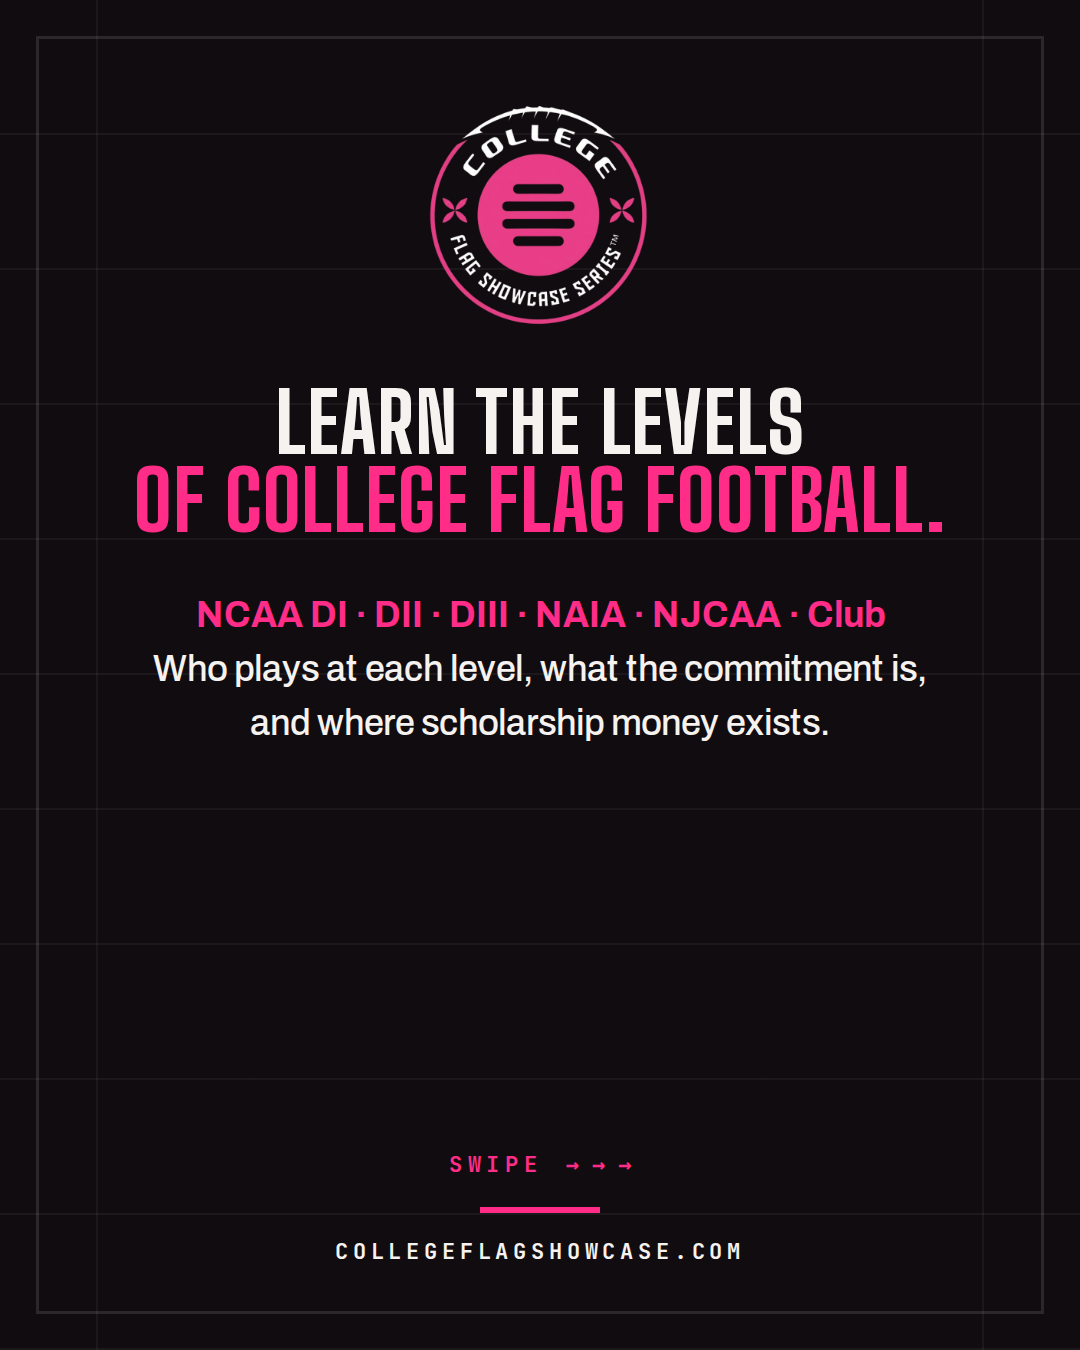
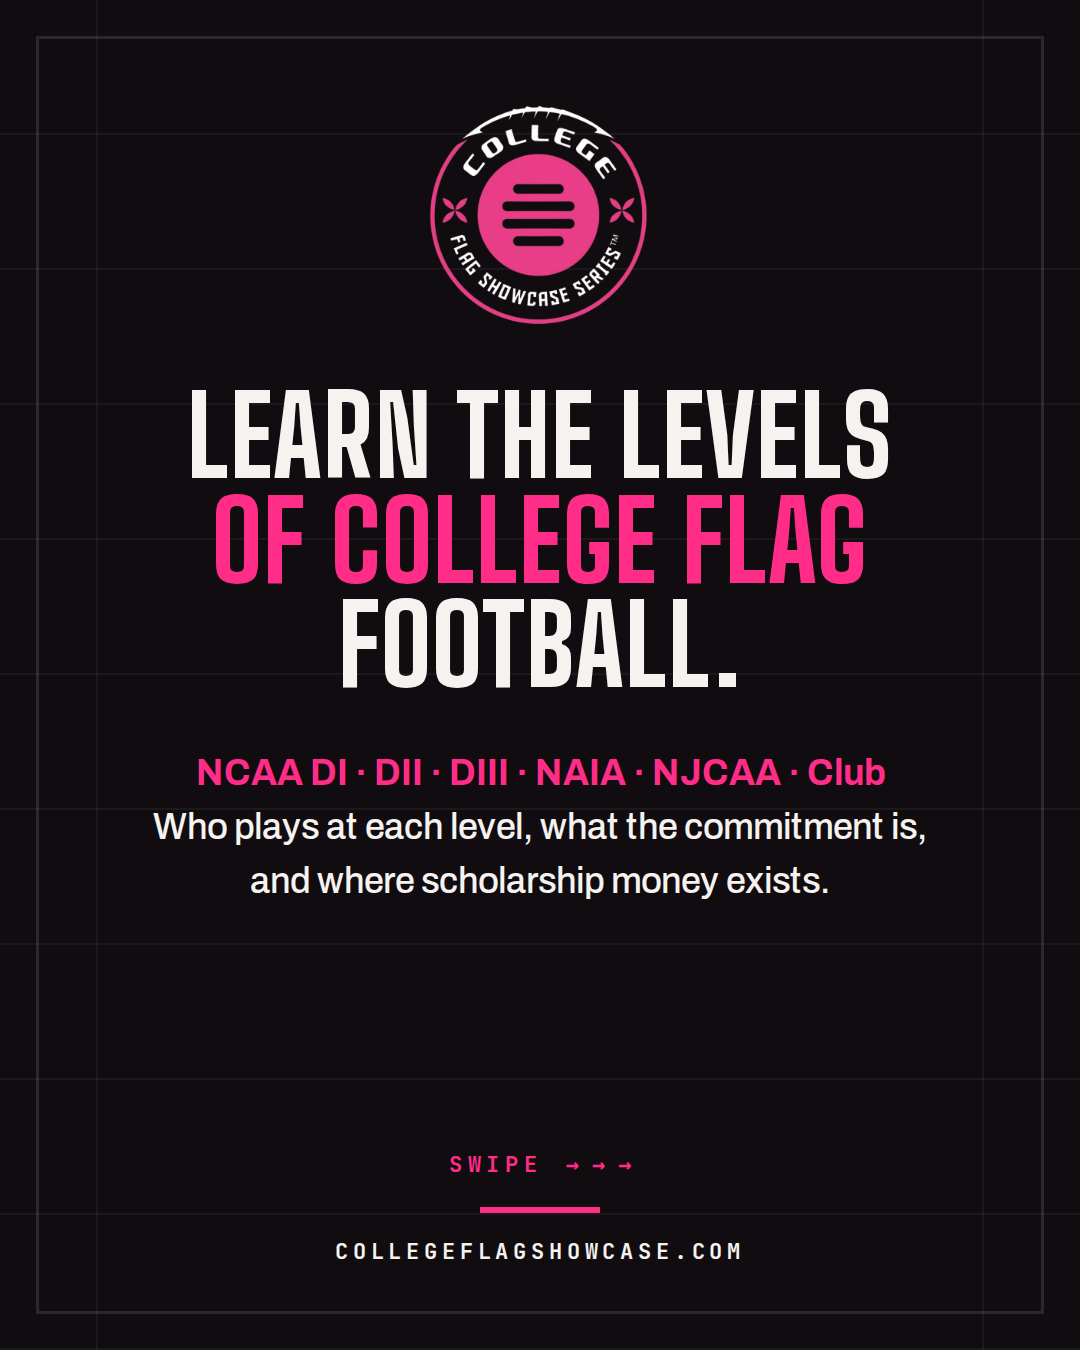
Enlarge cover title to fill the slide
Claude-Session: https://claude.ai/code/session_019V32boShoBmRrwWenCPJFc

Changed region(s): [[0.1222, 0.28, 0.8556, 0.6844]]

diff --git a/collateral/ig-carousel-divisions.html b/collateral/ig-carousel-divisions.html
@@ -60,7 +60,7 @@
   <div class="yards"></div><div class="hash l"></div><div class="hash r"></div><div class="frame"></div>
   <div class="inner center">
     <img class="logo" src="../public/logo.png" alt="College Flag Showcase Series" />
-    <h1 class="cover-title" style="font-size:82px">Learn the levels<em>of college flag football.</em></h1>
+    <h1 class="cover-title" style="font-size:110px">Learn the levels<em>of college flag</em>football.</h1>
     <p class="cover-body"><b>NCAA DI &middot; DII &middot; DIII &middot; NAIA &middot; NJCAA &middot; Club</b><br />Who plays at each level, what the commitment is, and where scholarship money exists.</p>
     <p class="swipe">Swipe<span>&nbsp;&rarr;&nbsp;&rarr;&nbsp;&rarr;</span></p>
     <div class="rule cover-rule"></div>
